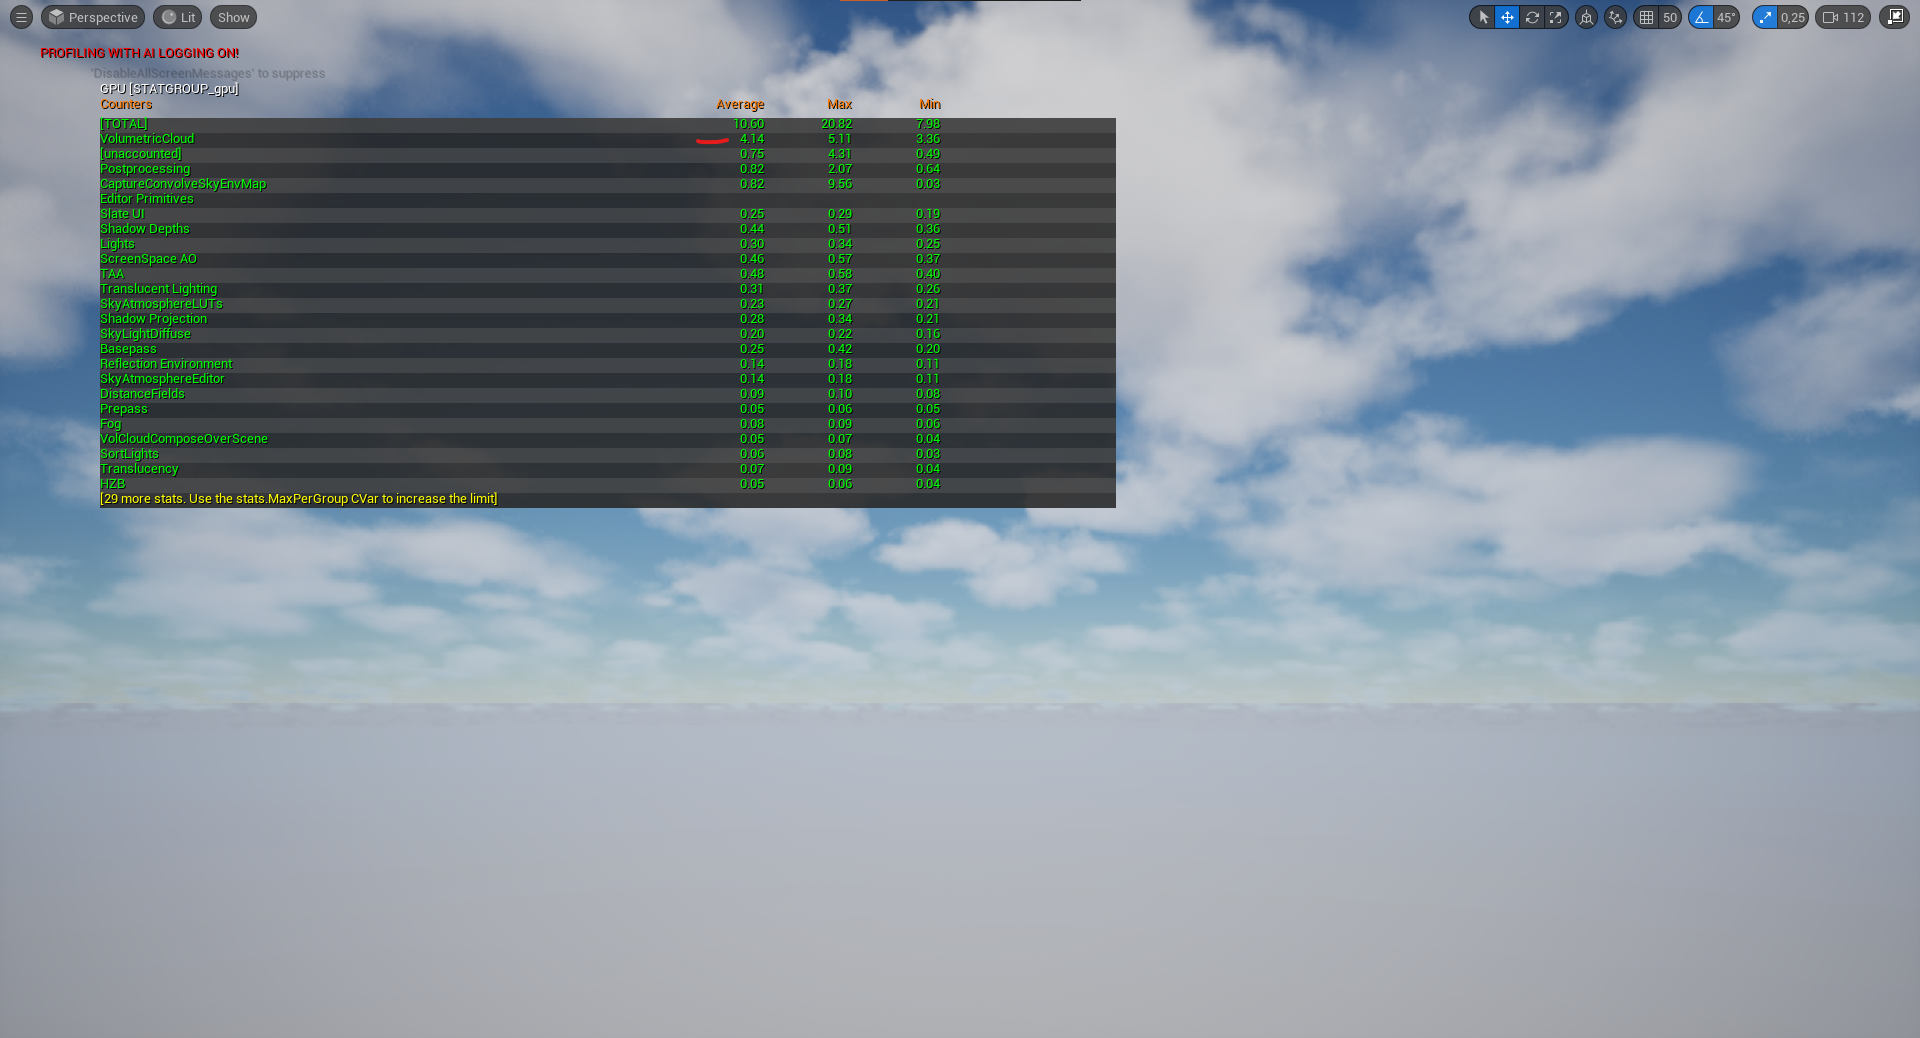
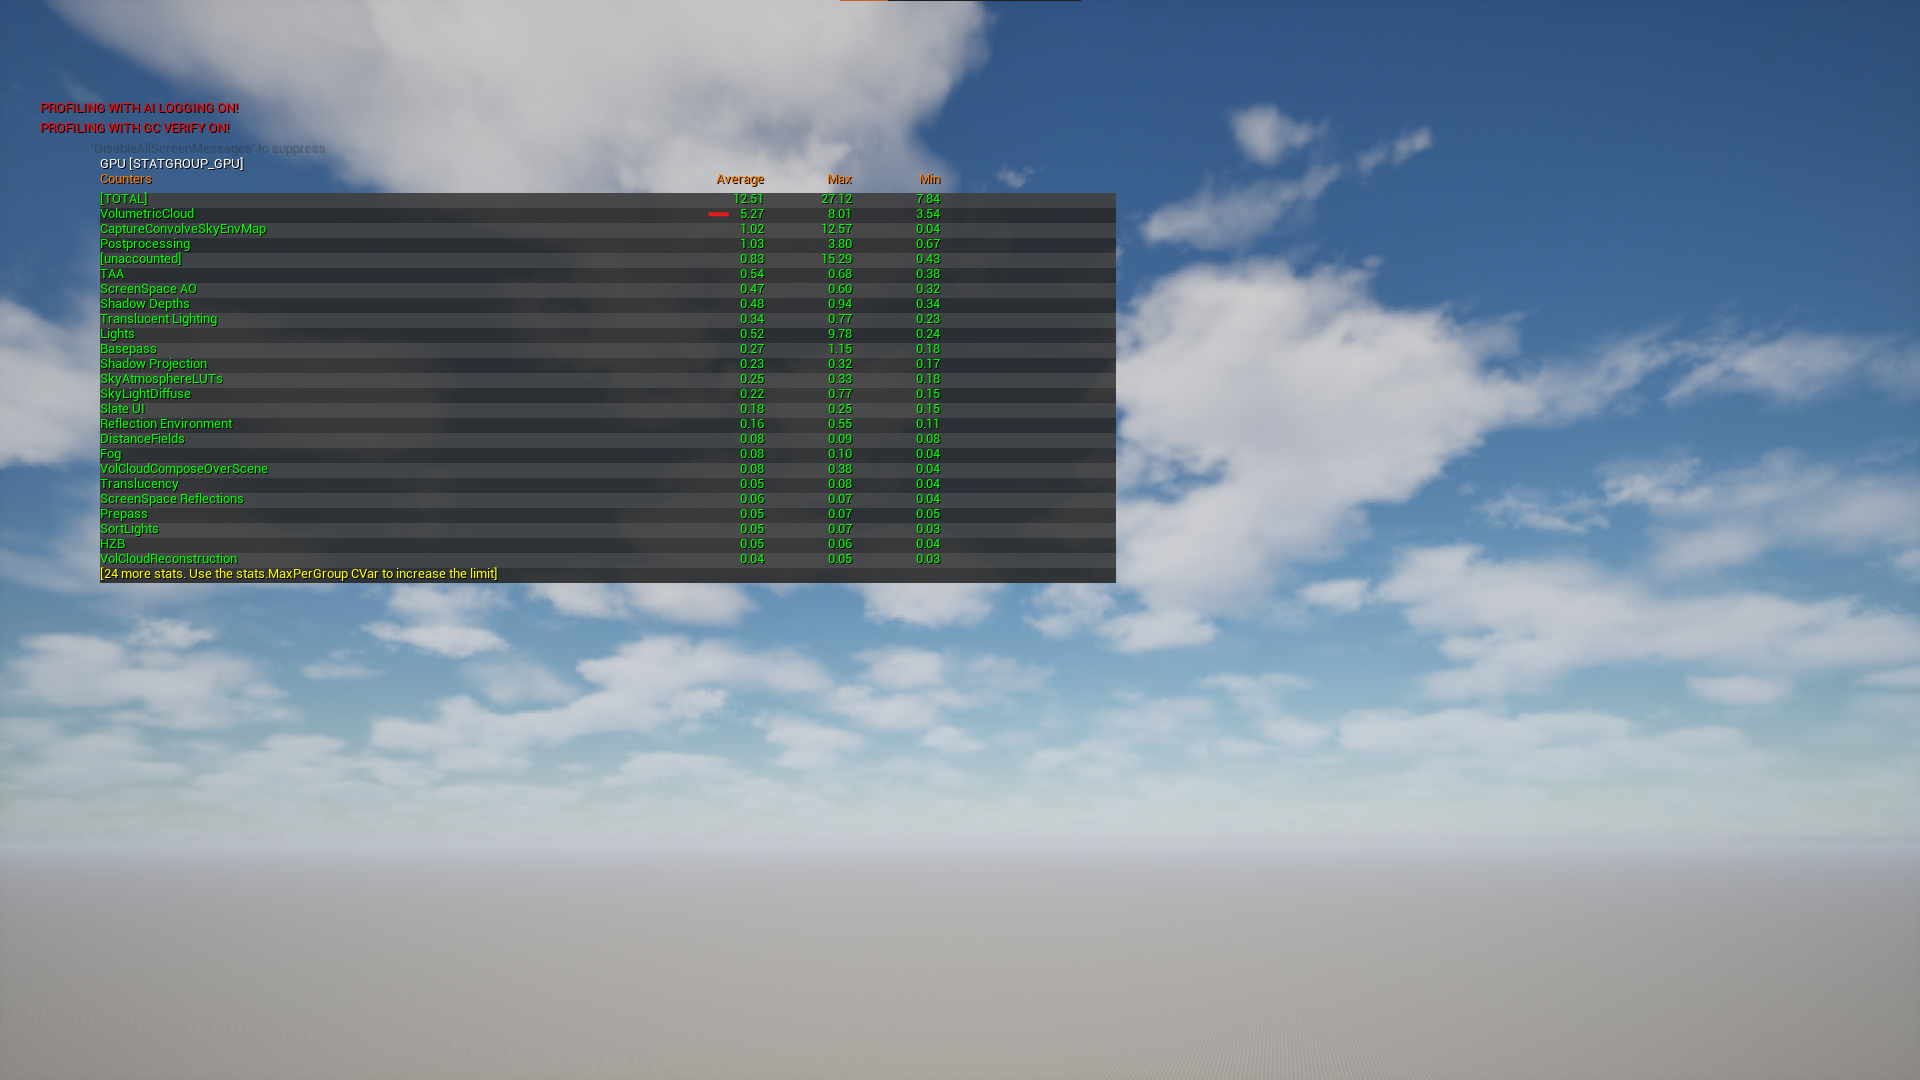
Small fixes

diff --git a/content/distantlights/start/_index.md b/content/distantlights/start/_index.md
@@ -27,7 +27,7 @@ Type `lights` in search bar.
 
 #### Enable the Plugin
 Enable the plugin by checking its box as shown below.
-![Enable plugin](/distantlights/Lights_EnablePlugin.png)
+![Enable plugin](Lights_EnablePlugin.png)
 {{% /steps %}}
 
 ## Quickstart
